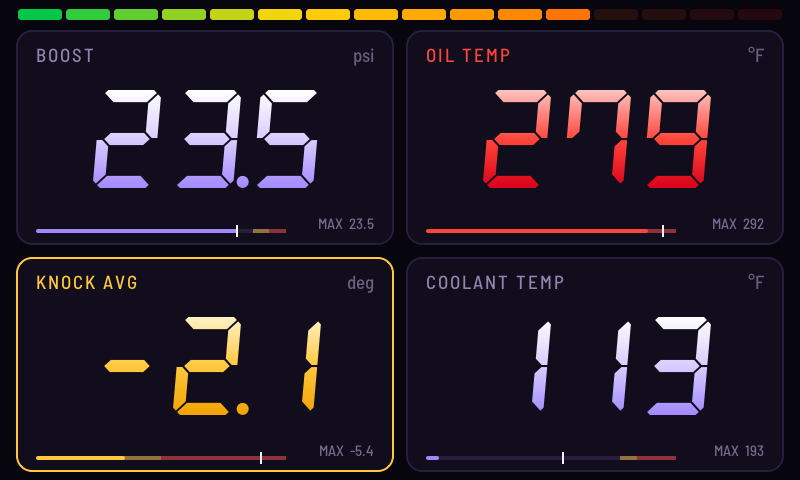
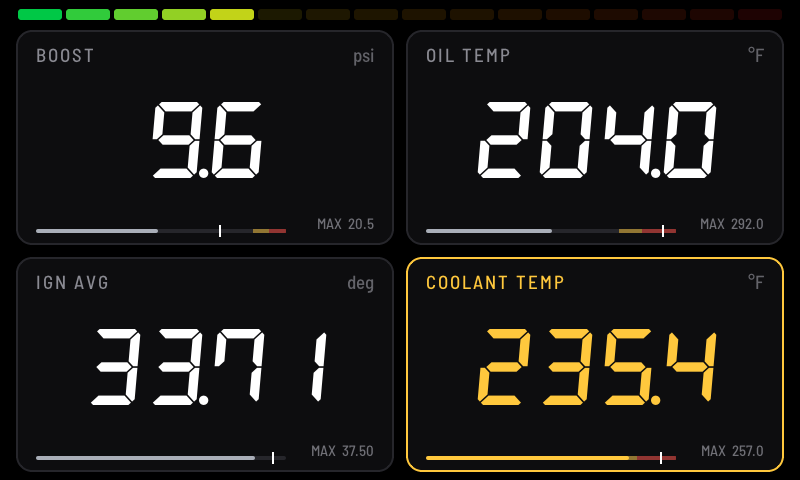
README: eight themes with their own number colours, start-up tachometer sweep, idle screen while an app has the car, gradient numbers gone; new gauge, idle and phone pictures

diff --git a/README.md b/README.md
@@ -15,25 +15,29 @@ lights, nothing else. **You set it up from your phone**, once or twice, sitting 
 
 ## What it does
 
-![The dash at night: four gauges and the shift lights](img/gauges.png)
+![The dash at night (Pure Dark): four gauges and the shift lights](img/gauges.png)
 
-![The same gauges in a day theme: white backdrop, black numbers](img/gauges_day.png)
+![The same gauges in a day theme (Pure Light): light backdrop, black numbers](img/gauges_day.png)
 
 * **Three layouts: Quad (four big gauges), Grid (six) and Focus (one large and three small)** (by default boost, oil temperature, knock and coolant temperature, then intake air temperature and battery voltage). You choose what each gauge shows from your phone, and each number is sized automatically to fill its gauge.
-* **Start-up sweep:** at power-on the shift lights and scales sweep once, like an instrument cluster.
-* **Day and night themes:** a light theme with a white backdrop and black numbers for the day (easiest to read in direct sun), a dark theme for the night, switched automatically at the night hours (the same schedule as the brightness). Three day themes and seven night themes; or keep one theme at any time of day.
-* **Your look:** six number fonts (digital, italic, condensed, wide, technical, clean), gauges on cards or in the open style with thin lines between them, numbers in a gradient or a solid colour, a thin scale under each number (warning zones marked, the max value as a tick), and shift lights in green-to-red or the theme's colours.
+* **Start-up sweep:** at power-on a tachometer sweeps to 8,000 rpm and back, then the gauges appear and the shift lights and scales sweep once, like an instrument cluster (the second sweep can be switched off).
+* **Day and night themes:** eight themes, four light ones for the day (Pure Light, Honey, Aero Slate, Parchment; dark numbers on a light backdrop, easiest to read in direct sun) and four dark ones for the night (Pure Dark, Fjord, Nocturne, Aviation Amber). The dash switches between your day and night theme automatically at the night hours (the same schedule as the brightness), and picks the right one before the first frame at power-on. Or keep one theme at any time of day. Each theme has its own number colour.
+* **Your look:** six number fonts (digital, italic, condensed, wide, technical, clean), gauges on cards or in the open style with thin lines between them, a thin scale under each number (warning zones marked, the max value as a tick), and shift lights in green-to-red or the theme's colours.
 * **Shift lights:** a bar of 16 lights across the top that fills from green to red over the whole rev range, from 1,500 rpm (idle shows nothing) to 6,000 rpm, where the tachometer's red zone starts and the whole bar flashes red.
 * **Warning colours:** a gauge turns yellow, then red. Stock limits come from your own car's factory calibration where the dash knows it (turbo speed, boost and manifold pressure, fuel pump, compressor temperature: yellow where the engine computer starts protecting itself, red at its hard limit), and from limits for the EA888 Gen 3 otherwise (for example coolant 110 / 116 °C, 230 / 241 °F; oil 125 / 135 °C, 257 / 275 °F). If your car is tuned, set your tune's values on the phone page; one tap goes back to stock. A gauge in the red also flashes its frame, so it catches your eye when you are not looking at it.
 * **Max values:** each gauge shows the highest value since the dash started (the lowest for knock). Clear them from the phone page.
-* **Brightness:** a day and a night level, set from the phone page; the night level follows the dash's clock. The screen also says why the gauges are empty: NO DONGLE, CAR OFF, NO DATA or APP CONNECTED.
-* **Set up from your phone:** pair the dongle, choose the gauges, theme, units, the engine list, the clock, update the firmware, and load a new list of values if you are sent one (no computer needed). The dash is a live view; it does not record (the dongle is where logging happens).
+* **Brightness:** a day and a night level, set from the phone page; the night level follows the dash's clock. The screen also says why the gauges are empty: NO DONGLE, CAR OFF or NO DATA.
+* **While a phone app has the car:** when Simos.app connects to the dongle, the dash shows an idle screen with the logo, the time and **DONGLE ACTIVE · APP CONNECTED**, and goes back to the gauges a few seconds after the app disconnects.
+
+  ![The idle screen while Simos.app has the car](img/app_connected.png)
+
+* **Set up from your phone:** pair the dongle, choose the gauges, theme, units, the engine list, the clock, update the firmware, and load a new list of values if you are sent one (no computer needed). The dash is a live view; it does not record (logging is done in Simos.app).
 * **ECU detection:** the dash reads which engine computer the car has (through the dongle) and picks the matching list of values by itself. You can still choose by hand.
 * **Pure gauge view while driving:** above 10 mph the phone page refuses changes, so nobody fiddles with it on the move.
 
 ## What you need
 
-* A **PhantomCAN dongle** in the car's OBD-II port, in Simos mode, its normal mode (see the dongle's README). The dash does not read the car itself. While a phone app (Simos.app) is connected to the dongle, the dash shows **APP CONNECTED**; its values come back a few seconds after the app disconnects.
+* A **PhantomCAN dongle** in the car's OBD-II port, in Simos mode, its normal mode (see the dongle's README). The dash does not read the car itself. While a phone app (Simos.app) is connected to the dongle, the dash shows its idle screen (**APP CONNECTED**); the gauges come back a few seconds after the app disconnects.
 * The dash: a 5-inch 800 x 480 ESP32-S3 display board from Waveshare running PhantomDASH, powered from the car (6 to 36 V; a fused feed is advised).
 * A **phone** with a browser (any phone).
 
@@ -73,7 +77,7 @@ It looks and works like your phone's own settings: grouped lists, switches and s
 * **Gauges:** tap a gauge to choose what it shows from the list.
 * **Engine list:** automatic (the dash picks the list from the engine computer) or choose by hand.
 * **Theme:** automatic day and night (choose a day theme and a night theme), or one theme always.
-* **Layout:** Quad, Grid or Focus; gauges on Cards or Open (thin lines between them). **Numbers and details:** six number fonts; numbers in a gradient or one colour; the scale under each number on or off; shift lights in green to red or in the theme's colours; the start-up sweep.
+* **Layout:** Quad, Grid or Focus; gauges on Cards or Open (thin lines between them). **Numbers and details:** six number fonts; the scale under each number on or off; shift lights in green to red or in the theme's colours; the start-up sweep.
 * **Warning limits:** for each gauge shown, the stock yellow and red limits and where they come from, and fields to set your own if your car is tuned (**Stock** goes back).
 * **Screen brightness:** a day and a night level, and the night hours.
 * **Units, max values:** imperial or metric; clear the max values.
@@ -120,7 +124,7 @@ If the problem may be the dongle's side, send its log too (see the PhantomCAN do
 | The gauges show `--` and **CAR OFF** | The dongle hears nothing on the car's network (ignition off). The values come back when the car wakes. |
 | The gauges show `--` and **NO DATA** | The dongle is linked, but no values have come for a few seconds: the car is not answering it. If it stays, turn the ignition off and on, or unplug the dongle and plug it back in, and send both logs (see [Sending a log](#sending-a-log)). |
 | The gauges show `--` | The dongle is connected but the car has not answered yet, or the value is not offered by the list in use. |
-| The gauges show `--` and **APP CONNECTED** | A phone app (Simos.app) is connected to the dongle. The values come back a few seconds after the app disconnects. |
+| The idle screen (logo and **APP CONNECTED**) stays | A phone app (Simos.app) is still connected to the dongle, perhaps in the background on your phone: close it. The gauges come back a few seconds after it disconnects. If the dongle lost power during the app session, the dash shows **NO DONGLE** after an hour, or at once when the ignition is turned off and on. |
 | An HSL list shows nothing | The engine computer did not accept HSL (it needs a tune with the HSL patch), or the list is for the gearbox. Choose a mode 22 list. |
 | The night brightness never changes | It needs the dash's clock. The clock sets itself from your phone when you open the page, but it keeps the time with the power off only if a coin cell (CR927) sits in the board's battery holder. |
 | The page says "No list of values loaded" | Load the list file (`.pdv`) you were sent under **Update**, LIST OF VALUES. |
